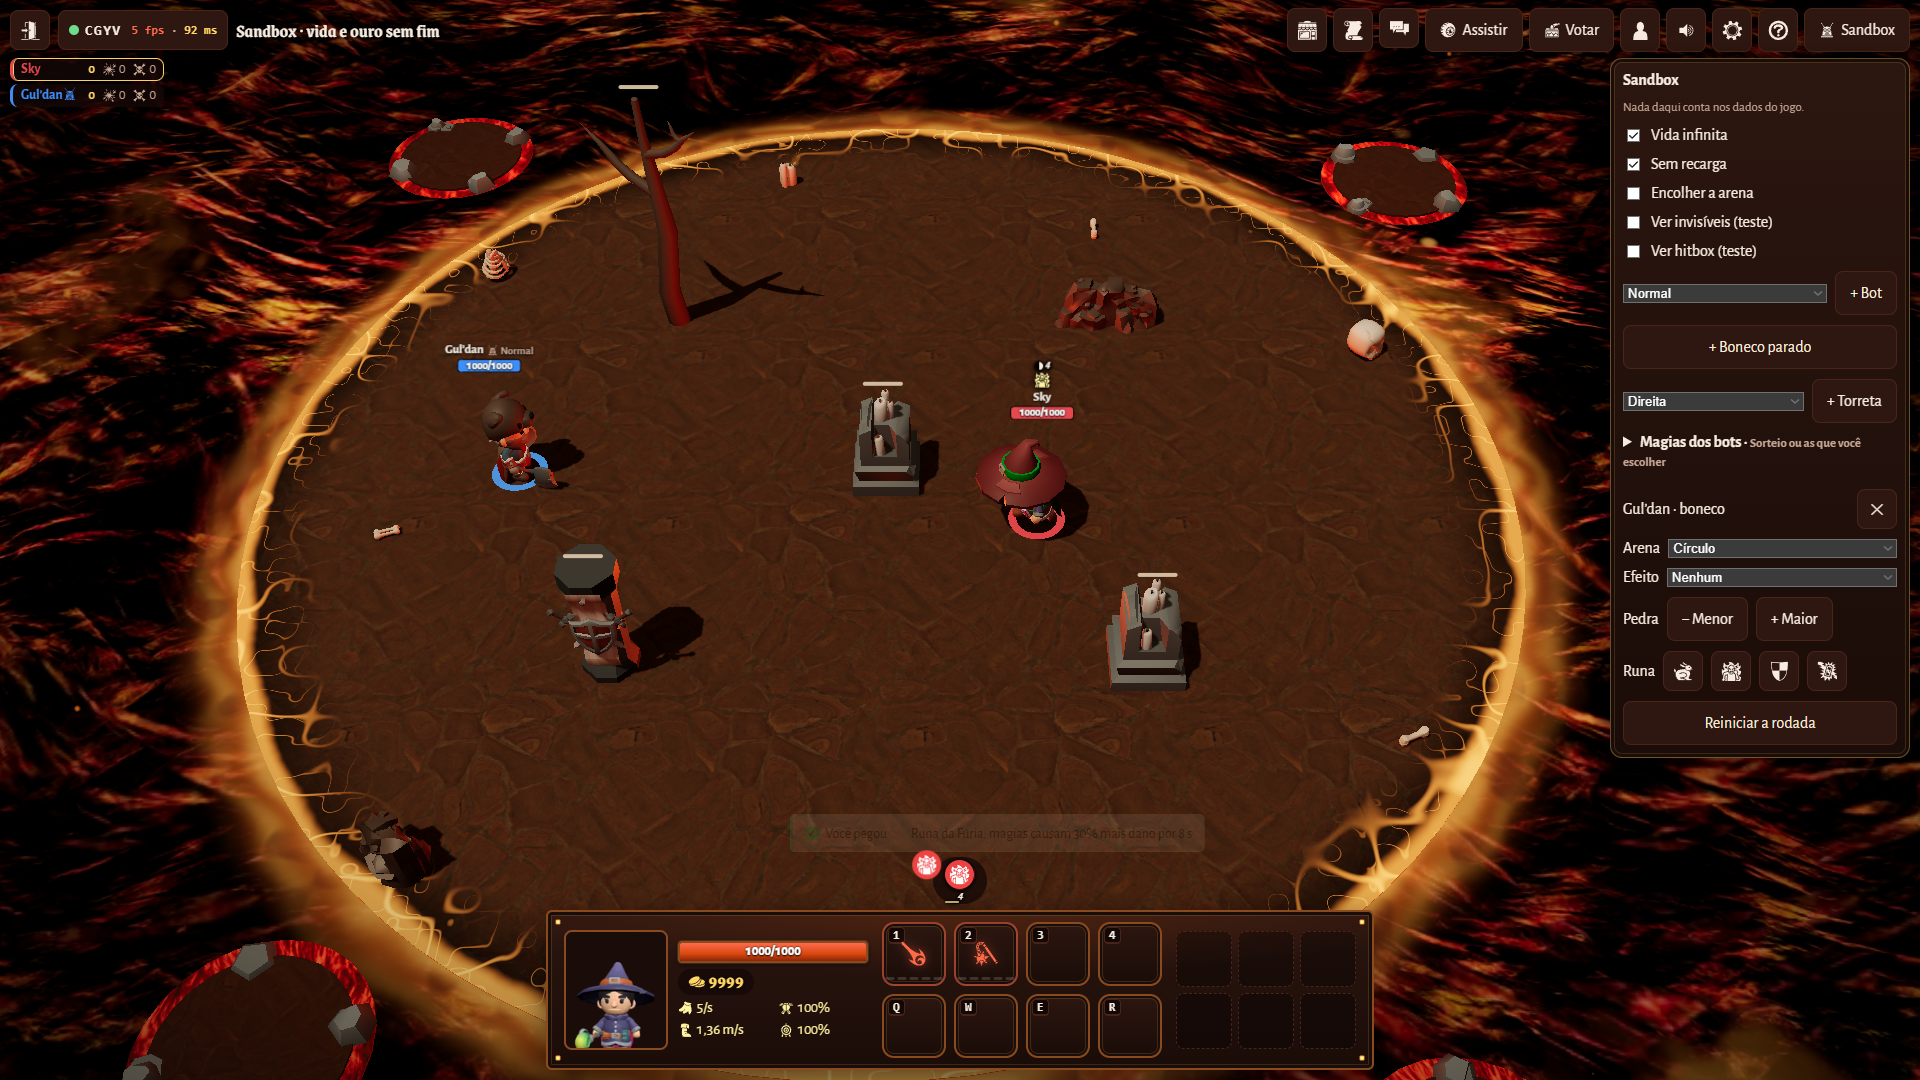
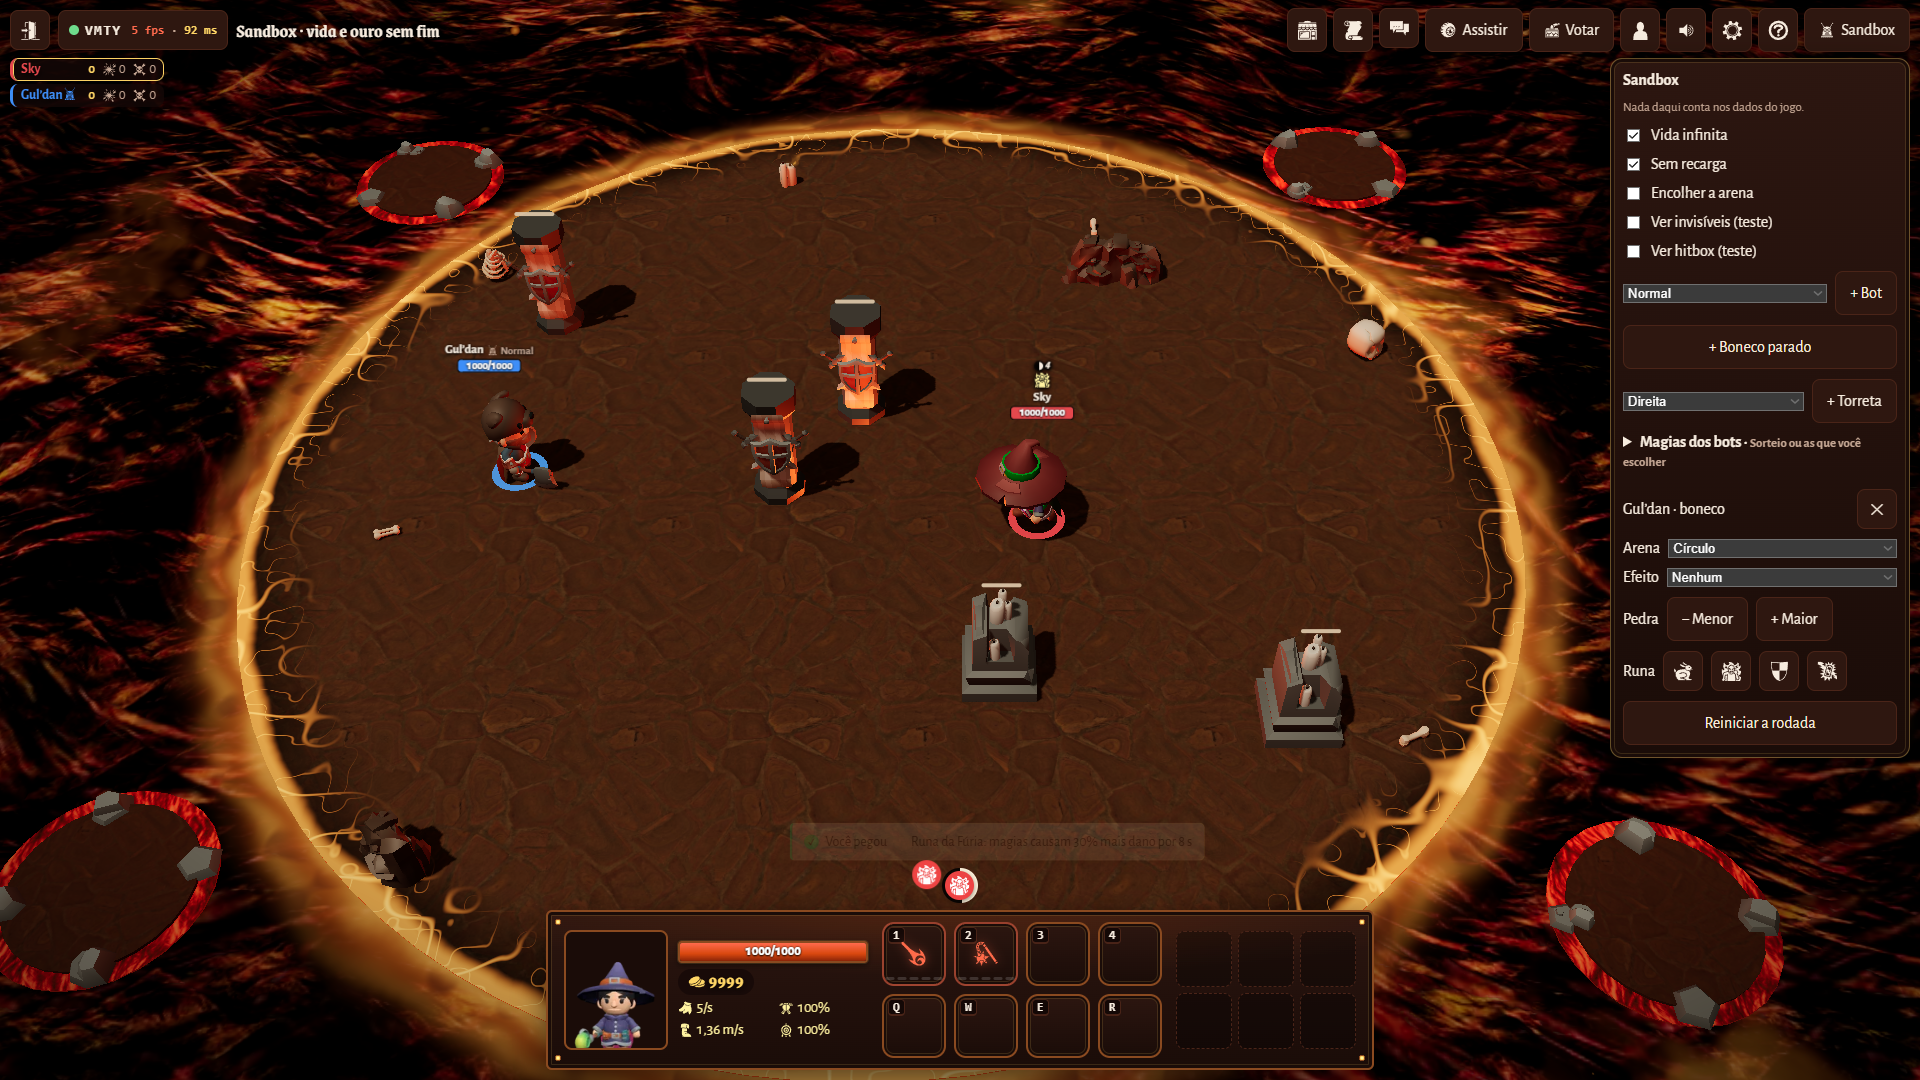
style: buff em disco solto com anel de tempo, sem a pílula escura
O disco colorido dentro da pílula escura parecia um alvo; agora o disco fica
solto e um anel claro em volta esvazia com o tempo (sem o número), escolha do
Sky entre número maior, anel e os dois. O aviso volta à altura do #263.

diff --git a/src/client/style.css b/src/client/style.css
@@ -181,20 +181,21 @@ button.kick:hover { background: rgba(255, 106, 77, .15); }
 .item-grid .passive small { position: absolute; right: 3px; bottom: 1px; font-size: .7rem; color: var(--ember); font-weight: 800; }
 .slot-empty { border-radius: var(--r-sm); background: rgba(0, 0, 0, .35); border: 1px dashed var(--line); }
 /* efeitos em mim acima da barra (mesmos ícones de cima do mago) */
-.barwrap .hud-status { gap: 10px; padding: 3px 12px; border-radius: 999px; background: var(--panel-glass); }
+/* sem a pílula escura atrás (o disco dentro dela parecia um alvo, pedido do Sky): só os discos soltos, com 16 px entre eles para os anéis não se tocarem */
+.barwrap .hud-status { gap: 16px; padding: 4px; }
 .hud-status:empty { display: none; }
-.barwrap .hud-status i { font-size: 1.3rem; position: relative; flex-direction: column; align-items: center; }
+.barwrap .hud-status i { font-size: 1.3rem; position: relative; isolation: isolate; filter: none; }
 /* ícone do buff num disco de cor, igual ao do aviso (1,3rem e .2em de borda): o aviso da runa vira este ícone (flyToast em ui.ts) */
-.barwrap .hud-status .gi { box-sizing: content-box; padding: .2em; border-radius: 50%; background: var(--toast-good); color: var(--ink); }
+.barwrap .hud-status .gi { box-sizing: content-box; padding: .2em; border-radius: 50%; background: var(--toast-good); color: var(--ink); box-shadow: var(--shadow-sm); }
 .barwrap .hud-status i.bad .gi { background: var(--toast-bad); color: var(--white); }
 .barwrap .hud-status i[data-rune="haste"] .gi { background: var(--rune-haste); }
 .barwrap .hud-status i[data-rune="fury"] .gi { background: var(--rune-fury); color: var(--white); }
 .barwrap .hud-status i[data-rune="shield"] .gi { background: var(--rune-shield); }
 .barwrap .hud-status i[data-rune="recharge"] .gi { background: var(--rune-recharge); }
-/* duração do efeito: segundos embaixo do ícone e um filete que esvazia (--left vem de ui.ts) */
-.barwrap .hud-status i small { font-size: .5em; font-weight: 700; color: var(--fg); margin-top: 1px; }
-.barwrap .hud-status i small:empty { display: none; }
-.barwrap .hud-status i::after { content: ''; position: absolute; left: 0; bottom: -2px; height: 2px; width: calc(var(--left, 0) * 100%); border-radius: 1px; background: currentColor; opacity: .7; }
+/* duração do efeito: anel claro de 3 px em volta do disco que esvazia no sentido horário (--left vem de ui.ts), sem o número (escolha do Sky entre número, anel e os dois);
+   sem prazo (Égide pronta) fica só o aro escuro, que separa o disco da arena */
+.barwrap .hud-status i small { display: none; }
+.barwrap .hud-status i::after { content: ''; position: absolute; inset: -3px; z-index: -1; border-radius: 50%; background: conic-gradient(var(--cream) calc(var(--left, 0) * 1turn), color-mix(in srgb, var(--ink) 85%, transparent) 0); }
 @media (min-width: 601px) and (min-height: 501px) {
   /* a vida some na contagem e morto: o lugar fica, para a barra não pular */
   .hero-box .vitals[hidden] { display: flex !important; visibility: hidden; }
@@ -314,11 +315,11 @@ button.kick:hover { background: rgba(255, 106, 77, .15); }
 .wiz-label .hp-extra .rush { color: #ff9640; }
 
 /* letra 1,3x do tamanho normal, a mesma do aviso de quem saiu (PR #234), e fundo claro: o aviso aparece por poucos segundos no meio da partida e precisa ser lido de relance */
-#toast { position: fixed; left: 50%; bottom: calc(196px + var(--safe-b)); transform: translateX(-50%); background: var(--paper); color: var(--ink); border: 1px solid var(--gold-toast); box-shadow: var(--shadow-toast); padding: 13px 18px; border-radius: var(--r-sm); font-size: 1.3rem; opacity: 0; transition: opacity .2s; pointer-events: none; max-width: calc(100% - 32px); overflow-wrap: anywhere; z-index: 20; user-select: text; }
+#toast { position: fixed; left: 50%; bottom: calc(188px + var(--safe-b)); transform: translateX(-50%); background: var(--paper); color: var(--ink); border: 1px solid var(--gold-toast); box-shadow: var(--shadow-toast); padding: 13px 18px; border-radius: var(--r-sm); font-size: 1.3rem; opacity: 0; transition: opacity .2s; pointer-events: none; max-width: calc(100% - 32px); overflow-wrap: anywhere; z-index: 20; user-select: text; }
 #toast.show { opacity: 1; pointer-events: auto; }
-/* o aviso fica acima dos ícones dos buffs ativos (.hud-status, 52 px acima da barra desde que o ícone ganhou o disco do aviso), com 8 px de folga, para não tapá-los (issue #262);
+/* o aviso fica acima dos ícones dos buffs ativos (.hud-status, 44 px acima da barra), com 8 px de folga, para não tapá-los (issue #262);
    acima de 800 px de altura a barra de baixo tem 160 px + 10 de margem em vez de 118 + 10, então o aviso sobe junto */
-@media (min-width: 601px) and (min-height: 801px) { #toast { bottom: calc(230px + var(--safe-b)); } }
+@media (min-width: 601px) and (min-height: 801px) { #toast { bottom: calc(222px + var(--safe-b)); } }
 /* com uma loja aberta o clique atravessa o aviso: ele fica por cima da última fileira de cartas e tapava a compra (issue #208) */
 body:has(.center .shop, .peek-shop:not([hidden]) .shop) #toast { pointer-events: none; }
 body.in-room::after { content: ''; position: fixed; inset: 0; pointer-events: none; background: radial-gradient(ellipse at 50% 50%, transparent 55%, rgba(0, 0, 0, .55) 100%); z-index: 1; }
